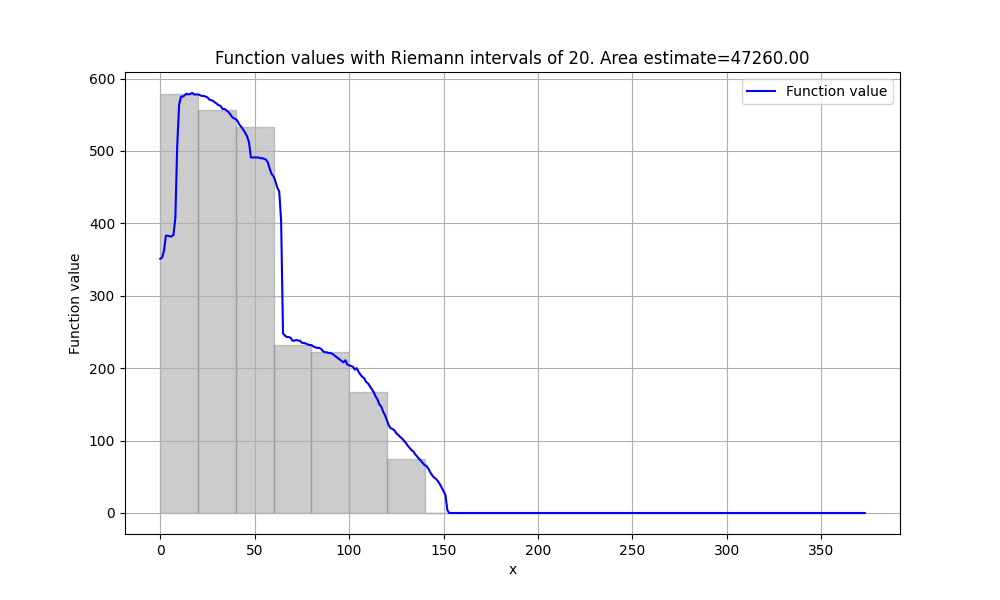
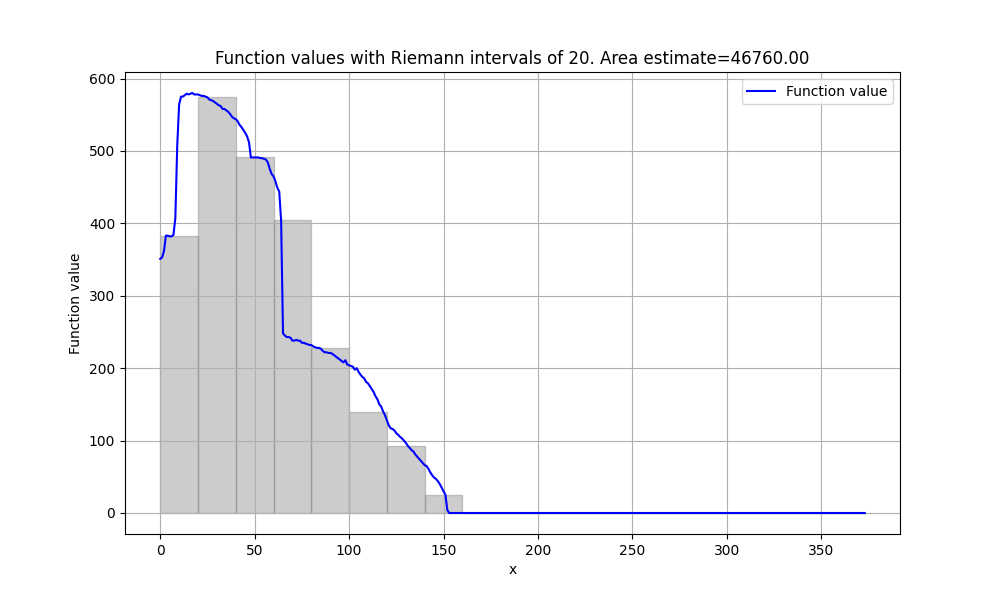
Final update

diff --git a/maths_ia.py b/maths_ia.py
@@ -10,9 +10,13 @@
 # process
 
 from PIL import Image
+
 import matplotlib.pyplot as plt
 import random
 import statistics
+import numpy as np
+import math
+from itertools import compress
 
 
 def convert_selected_to_red(image_path, new_path):
@@ -90,7 +94,7 @@ def count_colored_pixels(image, title, plot_file):
     return colored_count
 
 
-def riemann_sum(fn, interval_size, image_prefix):
+def riemann_sum(fn, interval_size, image_prefix, print_details=False):
     # Returns the Riemann Sum where each interval is "interval_size" pixels.
     # fn is value for each pixel
     fnvalues = []
@@ -115,6 +119,11 @@ def riemann_sum(fn, interval_size, image_prefix):
             x[i : i + interval_size + 1], 0, fnvalue, color="gray", alpha=0.4
         )
         partial_sum += fnvalue * interval_size
+        if print_details:
+            print(
+                f"    {int(i/interval_size)+1}, {i}, {i+interval_size},{interval_size}, {fnvalue}, {fnvalue*interval_size}"
+            )
+
     print(
         f"  Riemann Sum: Interval size: {interval_size}. Area estimate:{partial_sum:.2f}"
     )
@@ -171,8 +180,11 @@ def monte_carlo(image, num_points, monte_carlo_file, silent):
     inside_ratio = (inside_colored_area * 1.0) / (num_points * 1.0)
     estimated_area = inside_ratio * total_area
     if silent != True:
+        p = inside_ratio
+        N = num_points
+        ci = 1.645 * math.sqrt(p * (1 - p) / N) * total_area
         print(
-            f"  Monte Carlo: {1:3}  iteration of {num_points:6} points. Estimated area: {estimated_area:.2f} (Inside:{inside_colored_area:6} Outside:{outside_colored_area:6} Total area: {total_area} )"
+            f"  Monte Carlo: {1:3}  iteration of {num_points:6} points. Estimated area: {estimated_area:.0f} +/- {ci:4.0f} ( Inside:{inside_colored_area:6} Outside:{outside_colored_area:6} Total area: {total_area} )"
         )
         new_image.save(f"{monte_carlo_file}_{num_points}.png")
     return estimated_area
@@ -213,6 +225,125 @@ def crop_image(image_path_new, output_path_new):
     cropped_image_new.save(output_path_new)
 
 
+def calculate_lebesgue_integral(fn_values, num_intervals, print_details=False):
+    """
+    Calculate the Lebesgue integral of a function represented by an array of values.
+
+    :param fn_values: Array of function values
+    :param num_intervals: Number of intervals to partition the range of f(x)
+    :return: The approximate Lebesgue integral, partition information
+    """
+    # Extracting the relevant function values for the integration range
+    # start = 0
+    # end = len(fn_values)
+    # # relevant_fn_values = fn_values[start : end + 1]
+    relevant_fn_values = fn_values
+
+    # Step 1: Partition the range of f(x) into intervals
+    min_fn_value = np.min(relevant_fn_values)
+    max_fn_value = np.max(relevant_fn_values)
+    fn_range = max_fn_value - min_fn_value
+    interval_length = fn_range / num_intervals
+    if print_details:
+        print(f"Min:{min_fn_value} Max:{max_fn_value} Range:{fn_range}")
+    intervals = [
+        (
+            min_fn_value + i * interval_length,
+            min_fn_value + (i + 1) * interval_length,
+        )
+        for i in range(num_intervals)
+    ]
+    # Tweak the last interval to ensure that the max value of the function is included.
+    intervals[-1] = (
+        min_fn_value + (num_intervals - 1) * interval_length,
+        max_fn_value + interval_length,
+    )
+
+    # Step 2: Calculate the Lebesgue measure for each interval
+    lebesgue_measures = np.zeros(num_intervals)
+    for i, (lower, upper) in enumerate(intervals):
+        in_interval = (relevant_fn_values >= lower) & (relevant_fn_values < upper)
+        lebesgue_measures[i] = np.sum(in_interval)  # / len(relevant_fn_values)
+
+    # Step 3: Calculate the infimum for each interval
+    infimums = np.zeros(num_intervals)
+    maximums = np.zeros(num_intervals)
+    for i, (lower, upper) in enumerate(intervals):
+        in_interval = (relevant_fn_values >= lower) & (relevant_fn_values < upper)
+        matching_values = list(compress(relevant_fn_values, in_interval))
+        if np.any(in_interval):
+            infimums[i] = np.min(matching_values)
+            maximums[i] = np.max(matching_values)
+        else:
+            infimums[i] = 0
+            maximums[i] = 0
+        if print_details:
+            print(
+                f"{i+1:0}, {lower:.1f}, {upper:.1f}, {lebesgue_measures[i]:0}, {infimums[i]}, {maximums[i]}"
+            )
+
+    # Step 4: Sum up the products of the Lebesgue measure and the infimum for each interval
+    lebesgue_lower_integral = np.sum(lebesgue_measures * infimums)
+    lebesgue_upper_integral = np.sum(lebesgue_measures * maximums)
+    print(
+        f"    {num_intervals},{lebesgue_lower_integral:.1f},{lebesgue_upper_integral:.1f}"
+    )
+    return lebesgue_lower_integral, lebesgue_upper_integral, intervals
+
+
+# Calculating the Lebesgue integral for f(x) from x = 0 to x = 248
+# lebesgue_integral, intervals = calculate_lebesgue_integral(fn_values, 10)
+# lebesgue_integral, intervals
+
+
+def plot_lebesgue(fn_values, intervals, image_prefix):
+    """
+    Plot the function and the Lebesgue intervals.
+
+    :param fn_values: Array of function values
+    :param intervals: List of tuples representing the Lebesgue intervals
+    :param image_prefix: Image prefix for generate plot
+    """
+    x_values = range(len(fn_values))
+    x_range = range(len(fn_values))
+    plt.figure(figsize=(10, 5))
+
+    # Plotting the function
+    plt.plot(x_values, fn_values, label="Function $f(x)$", color="blue")
+
+    # Highlighting the range of integration
+    start = 0
+    end = len(fn_values)
+    plt.axvline(x=start, color="green", linestyle="--", label="Integration Range")
+    plt.axvline(x=end, color="green", linestyle="--")
+    for i in intervals:
+        plt.axhline(y=i[0], color="blue", linestyle="-.")
+        plt.axhline(y=i[1], color="blue", linestyle="-.")
+    # Plot the end of the last interval and give it a label
+    plt.axhline(
+        y=intervals[-1][1], color="blue", linestyle="-.", label="Lebesgue intervals"
+    )
+    # plt.fill_between(
+    #     x_values[start : end + 1], fn_values[start : end + 1], color="green", alpha=0.1
+    # )
+
+    # Shading the Lebesgue intervals
+    # for lower, upper in intervals:
+    #     in_interval = (fn_values >= lower) & (fn_values < upper)
+    #     plt.fill_between(x_values, fn_values, where=in_interval, color="red", alpha=0.2)
+
+    plt.xlabel("x")
+    plt.ylabel("$f(x)$")
+    plt.title("Function and Lebesgue Intervals")
+    plt.legend()
+    plt.grid(True)
+    plt.savefig(f"{image_prefix}_{len(intervals)}.png")
+
+
+# Plotting the function and the Lebesgue intervals
+# plot_lebesgue(fn_values, intervals)
+
+
 # Process a single door image
 def process(prefix, title):
     source_file = f"./{prefix}_gray.png"
@@ -220,6 +351,7 @@ def process(prefix, title):
     colored_file = f"./{prefix}_red.png"
     plot_file = f"{prefix}_plot.png"
     monte_carlo_file = f"{prefix}_monte_carlo"
+    lebesgue_file = f"{prefix}_lebesgue"
     crop_image(source_file, cropped_file)
     im = convert_selected_to_red(cropped_file, colored_file)
     fn = count_colored_pixels(im, title, plot_file)
@@ -238,11 +370,24 @@ def process(prefix, title):
     monte_carlo_multiple(
         image=im, iterations=100, num_points=200000, monte_carlo_file=monte_carlo_file
     )
-    riemann_sum(fn, interval_size=20, image_prefix=f"{prefix}_riemann")
+    riemann_sum(
+        fn, interval_size=20, image_prefix=f"{prefix}_riemann", print_details=True
+    )
     riemann_sum(fn, interval_size=10, image_prefix=f"{prefix}_riemann")
     riemann_sum(fn, interval_size=5, image_prefix=f"{prefix}_riemann")
     riemann_sum(fn, interval_size=2, image_prefix=f"{prefix}_riemann")
     riemann_sum(fn, interval_size=1, image_prefix=f"{prefix}_riemann")
+
+    print("  Lebesgue integral with details")
+    _, _, intervals = calculate_lebesgue_integral(fn, 5, False)
+    plot_lebesgue(fn, intervals, lebesgue_file)
+    print("  Lebesgue integrals")
+    _, _, intervals = calculate_lebesgue_integral(fn, 10)
+    _, _, intervals = calculate_lebesgue_integral(fn, 20)
+    _, _, intervals = calculate_lebesgue_integral(fn, 30)
+    _, _, intervals = calculate_lebesgue_integral(fn, 40)
+    _, _, intervals = calculate_lebesgue_integral(fn, np.max(fn) + 1)
+
     return fn
 
 
